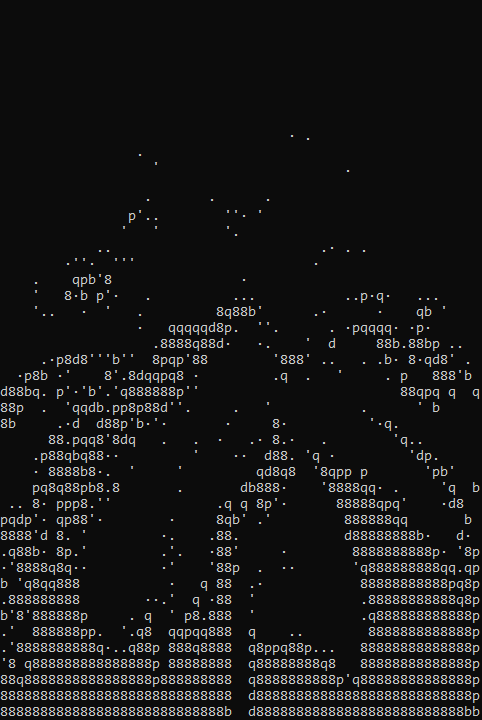
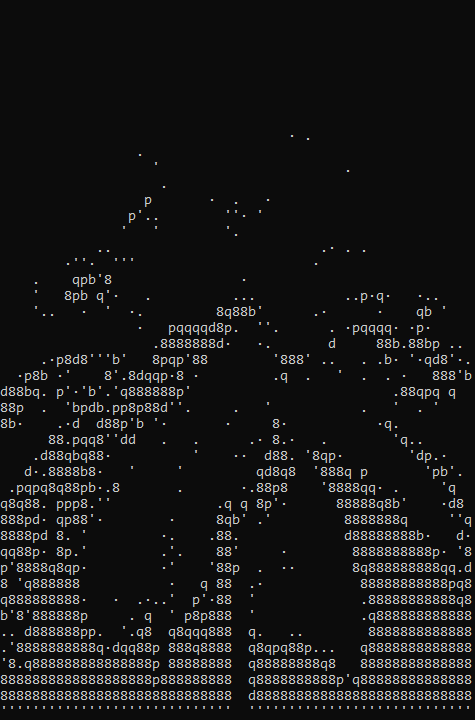
Readme update

diff --git a/src/main.rs b/src/main.rs
@@ -20,9 +20,9 @@ fn main() -> io::Result<()> {
 
     if args.all {
         args.chars = (32..=126).map(|c| c as u8 as char).collect::<String>();
-    } else {
-        args.chars.push_str(&args.add_chars);
     }
+
+    args.chars.push_str(&args.add_chars);
 
     args.chars = args
         .chars

diff --git a/readme.md b/readme.md
@@ -1,6 +1,6 @@
 <div>
-<img src="./images/cruz.png" height="400"/> 
-<img src="./images/tentaculos.png" height="400"/> 
+<img src="./images/cruz_C.png" height="400"/> 
+<img src="./images/tentaculos_cC.png" height="400"/> 
 </div>
 
 # Logo to ASCII
@@ -17,6 +17,8 @@ A diferencia de otros conversores de imágenes a ASCII, este no usa la luminosid
   - [Tutorial](#tutorial)
     - [Logo simple](#logo-simple)
     - [Logo con colores](#logo-con-colores)
+    - [Imprimir colores](#imprimir-colores)
+    - [Todo junto](#todo-junto)
     - [Imagen con muchos detalles](#imagen-con-muchos-detalles)
   - [Consejos para crear imágenes](#consejos-para-crear-imágenes)
   - [¿Cómo funciona?](#cómo-funciona)
@@ -46,8 +48,6 @@ Para convertirla, ejecutamos el programa desde la consola. Le indicamos la image
 ```
 
 ![Cruz de Calatrava](./images/cruz.png)
-
-**Opciones:**
 
 -   Para imprimir la imagen en negativo (imprimiendo donde está el color negro) se debe añadir `-i` al comando.
 
@@ -83,15 +83,16 @@ El set por defecto de caracteres es `8dbqp'·. ` (incluyendo el espacio).
 
 -   Para añadir caracteres al grupo por defecto se usa `-a <caracteres_a_añadir>`. Por ejemplo, `-a "_/\\"` añadirá los caracteres `_`, `/` y `\`.
 -   Para usar todos los caracteres ASCII imprimibles por pantalla (del 32 al 126 incluidos) se debe añadir `--all`.
+-   Para eliminar caracteres de ser usados, se puede usar `-x <caracteres_a_eliminar>`.
 
 ```
-./target/release/logo_to_ascii.exe --path ./images/Cross_Calatrava --all
+./target/release/logo_to_ascii.exe --path ./images/Cross_Calatrava.png --all
 ```
 
 ![Cruz de Calatrava con todos los caracteres](./images/cruz_all.png)
 
--   En caso de que se quiera cambiar el tamaño de la imágen, se usarán los argumentos `-w <anchura>` y `-h <altura>`. Estos indicarán el número de caracteres que habrá en horizontal o en vertical en el texto final. **Si se cambia solo uno de los argumentos se mantendrá la proporción de la imágen.**
--   Además están las opciones `--aw <anchura>` y `--ah <altura>` que te permiten cambiar el tamaño de la imagen en píxeles. De la misma forma, si solo se indica un argumento, se mantendrá la proporción de la imágen.
+-   En caso de que se quiera cambiar el tamaño de la imagen, se usarán los argumentos `-w <anchura>` y `-h <altura>`. Estos indicarán el número de caracteres que habrá en horizontal o en vertical en el texto final. **Si se cambia solo uno de los argumentos se mantendrá la proporción de la imagen.**
+-   Además están las opciones `--aw <anchura>` y `--ah <altura>` que te permiten cambiar el tamaño de la imagen en píxeles. De la misma forma, si solo se indica un argumento, se mantendrá la proporción de la imagen.
     Estos argumentos se pueden mezclar, pero tendrá más prioridad el tamaño en caracteres.
     En la consola los caracteres tienen una proporción de 1x2. El tamaño que se usa en esta aplicación es de 8x16.
 
@@ -154,39 +155,74 @@ Ahora vamos a probar con un logo de varios colores. Usaremos la siguiente imagen
 
 ![Tentáculos borde oscuro](./images/tentaculos_cv.png)
 
--   Todos estos argumentos también se puede usar con logos normales
-
-```
-./target/release/Logo_to_ASCII.exe --path .\images\Cross_Calatrava.png -cv
-```
-
-![Cruz de Calatrava borde oscuro](./images/cruz_cv.png)
-
--   Y mezclar unos con otros
-
-```
-./target/release/Logo_to_ASCII.exe --path .\images\tentacles.png -cv -a "@#$&Yg*'´_/\ \"
-```
-
-![Tentáculos borde oscuro con más caracteres](./images/tentaculos_cv_chars.png)
-
 -   Si se usa `-b <anchura>` sin `-c` se detectarán los bordes midiendo la luminosidad. No es recomendable, porque algunos colores (como el amarillo) tienen una luminosidad muy parecida a la del blanco, por lo que no se detecta la diferencia.
 -   Para cambiar la sensibilidad del detector de bordes se usa `-d <diferencia>`. Cuanto más alto sea el valor, más brusco tendrá que ser el cambio para que se detecte.
 -   Para pasar la imagen a blanco y negro se añade `-r`. Para cambiar el umbral se usa `-t <luminosidad_minima>`.
 
+### Imprimir colores
+
+-   Para imprimir colores se usa el argumento `-C`.
+-   Añadir `-s` saturará cada píxel brillante al máximo.
+
+Las imágenes situadas al inicio del documento son:
+
+```
+./target/release/Logo_to_ASCII.exe --path .\images\Cross_Calatrava.png -C
+```
+
+![Cruz de Calatrava con coles](./images/cruz_C.png)
+
+```
+./target/release/Logo_to_ASCII.exe --path .\images\tentacles.png -cC
+```
+
+![Tentáculos con colores](./images/tentaculos_cC.png)
+
+### Todo junto
+
+-   Todos estos argumentos también se puede mezclar unos con otros
+
+```
+./target/release/Logo_to_ASCII.exe --path .\images\Cross_Calatrava.png -cCv
+```
+
+![Cruz de Calatrava borde oscuro](./images/cruz_cCv.png)
+
+```
+./target/release/Logo_to_ASCII.exe --path .\images\tentacles.png -cCv -a "@#$&Yg*'´_/\ \"
+```
+
+![Tentáculos borde oscuro con más caracteres](./images/tentaculos_cCv_chars.png)
+
+-   Para guardar la imagen final se puede usar `-o <nombre_imagen>`. Hay que tener cuidado si se hace después añadir caracteres. En algunas terminales (por lo menos windows 10), si se acaba en ` \"` (para añadir también el carácter `"`) lo que se ponga después se tomará como caracteres a añadir.
+
+```
+./target/release/Logo_to_ASCII.exe --path .\images\tentacles.png -cCv -o final_tentacles_cCv.png
+```
+
+![Imagen final tentáculos](./images/final_tentacles_cCv_chars.png)
+
 ### Imagen con muchos detalles
 
-Si estás pensando en pasar a ASCII una foto con muchos detalles, lo mejor es que dejes de hacerlo. Los caracteres ASCII no tienen suficiente detalle como para que se vea bien la foto. Lo mejor que se puede hacer es pasar la imagen a blanco y negro con `-r`.
+Si estás pensando en pasar a ASCII una foto con muchos detalles, lo mejor es que dejes de hacerlo. Los caracteres ASCII no tienen suficiente detalle como para que se vea bien la foto. Lo mejor que se puede hacer es cambiar el punto medio de la luminosidad (por ejemplo, a 0.7) con `-m 0.7` o pasar la imagen a blanco y negro con `-r` y cambiar el threshold con `-t 0.7`.
 
 Por ejemplo:
 
 ![Palmera](./images/palm.jpg)
 
 ```
-./target/release/Logo_to_ASCII.exe --path '.\images\palm.jpg' -r
+./target/release/Logo_to_ASCII.exe --path .\images\palm.jpg -rt 0.7
 ```
 
 ![Palmera](./images/palmera.png)
+
+La aplicación no está diseñada para esto, pero si se quiere pasar la imagen y que se vean todos los colores se puede usar `-m 0`.
+
+```
+ ./target/release/Logo_to_ASCII.exe --path .\images\palm.jpg -m 0 -C
+```
+
+![Palmera con colores](./images/palmera_m7_C.png)
 
 ## Consejos para crear imágenes
 
@@ -211,25 +247,52 @@ Al calcular la luminosidad se obtiene un valor de 0 a 1. Es importante restarle 
 
 Además, se cuentan el número de píxeles con luminosidad positiva para una optimización futura.
 
+Hay varias operaciones que permiten cambiar los caracteres:
+
+-   `--chars <caracteres>`: Cambia el set de caracteres por defecto. Se pueden usar comillas simples o dobles para incluir espacios.
+-   `--all`: Cambia el set por defecto a todos los caracteres ASCII imprimibles (con prioridad sobre chars).
+-   `-a <caracteres>`: Añade caracteres al set por defecto.
+-   `-x <caracteres>`: Elimina caracteres del set por defecto.
+-   `--font <path_fuente>.ttf`: Cambia la fuente con la que se comparan los caracteres.
+
 2. **Preprocesado (si lo hay)**
 
-Primero se detectan los bordes: un píxel se marca como borde si la diferencia entre su valor y el de los píxeles situados a su derecha y debajo es más grande que un valor preestablecido. Estos bordes se pintan en la imagen.
+Para no tener que crear las imágenes a la perfección, la aplicación permite hacer ciertas operaciones. Son, en orden de ejecución:
 
-Luego se cambia el tamaño de la imagen a las dimensiones deseadas.
+-   Cambiar el tamaño de la imagen:
 
-3. **Bitmap de la imagen**
+    -   `-w <caracteres_anchura>`: Anchura en caracteres
+    -   `-h <caracteres_altura>`: Altura en caracteres
+    -   `--aw <anchura>`: Anchura en píxeles
+    -   `--ah <altura>`: Altura en píxeles
 
-Al igual que con los caracteres, se mide la luminosidad de cada píxel de la imagen. Luego también se le resta 0.5 (a menos que se haya cambiado con `-m <punto_medio>`) para obtener valores negativos.
+-   Offset:
 
-En caso de que se haya seleccionado la opción de pasar a blanco y negro, se pasará la imagen a blanco y negro antes de hacer el bitmap.
+    -   `--ofx <offset_x>`: Offset in x
+    -   `--ofy <offset_y>`: Offset in y
 
-En esta fase también se añade el offset directamente en el bitmap.
+-   Saturar los píxeles individualmente: `-s`
+-   Calcular los bordes de la imagen:
 
-4. **Convertir bloques a carácter**
+    -   `-b <anchura_borde>`: Anchura de los bordes. Si se da sin `-c` se calculan los bordes por luminosidad.
+    -   `-c`: Calcula los bordes por color. Si no se da b se pone por defecto a 8.
+    -   `-d <diferencia_minima>`: Diferencia mínima para detectar un borde.
+
+-   Invertir la imagen: `-i` Invierte la luminosidad, no los colores.
+
+-   Ver pixeles transparentes: `-v`
+-   Pasar la imagen a blanco y negro:
+
+    -   `-r`: Pasa la imagen a blanco y negro.
+    -   `-t <threshold>`: Valor mínimo para que un pixel se pase a blanco.
+
+3. **Convertir bloques a carácter**
 
 Después se divide la imagen en bloques con las mismas medidas que los caracteres. Cada bloque se compara con todos los caracteres (se pueden saltar varios en ciertos casos, ver optimización).
 
-Por cada carácter, se multiplica el valor de cada píxel con su homólogo en el bloque, y se suman todos los valores ([0][0] * [0][0] + [0][1] * [0][1] + ...). Al final, se imprime el carácter con la puntuación más alta.
+Por cada carácter, se multiplica la luminosidad de cada píxel con su homólogo en el bloque, y se suman todos los valores ([0][0] \* [0][0] + [0][1] \* [0][1] + ... + [n][m] \* [n][m]). Al final, se imprime el carácter con la puntuación más alta.
+
+En este apartado se da la opción de cambiar el punto medio en la luminosidad con `-m <punto_medio>`. Este argumento es por defecto 0.5 e indica lo que se le resta a la luminosidad de cada pixel (que está entre 0 y 1).
 
 **Optimización:**
 
@@ -242,10 +305,7 @@ El algoritmo funciona porque al multiplicar dos valores positivos se obtiene un 
 ## Preguntas frecuentes
 
 -   **¿Cómo imprimir un logo de color negro?**
-    Solo es un problema cuando el fondo es transparente. En ese caso basta con añadir `-i` al comando, para imprimir la imagen en negativo. Recordamos que el color transparente nunca se imprime.
-
--   **¿Por qué cuando paso el logo a blanco y negro (`-r`) desaparecen algunos colores?**
-    El paso de una imagen a blanco y negro es un intento de hacer compatible la app con fotos más complejas, por lo que usa una cuenta diferente para calcular la luminosidad de cada píxel. Para que vuelvan a aparecer se debe cambiar el umbral con `-t64`. El umbral por defecto es 127. Con ponerlo a 50 debería valer, pero se puede ajustar si es necesario.
+    Solo es un problema cuando el fondo es transparente. En ese caso basta con añadir `-i` al comando, para imprimir la imagen en negativo. Recordamos que los pixeles transparente nunca se imprime.
 
 -   **¿Por qué cuando cambio la fuente el texto se imprime con la misma fuente?**
     La aplicación solo usa la fuente para comparar cada bloque de la imagen con los caracteres. Se deberá cambiar la fuente de la consola (o donde la quieras poner para que encaje). Es probable que se vea deformado, ya que la aplicación asume que es una fuente monoespacio con proporción 1x2.
